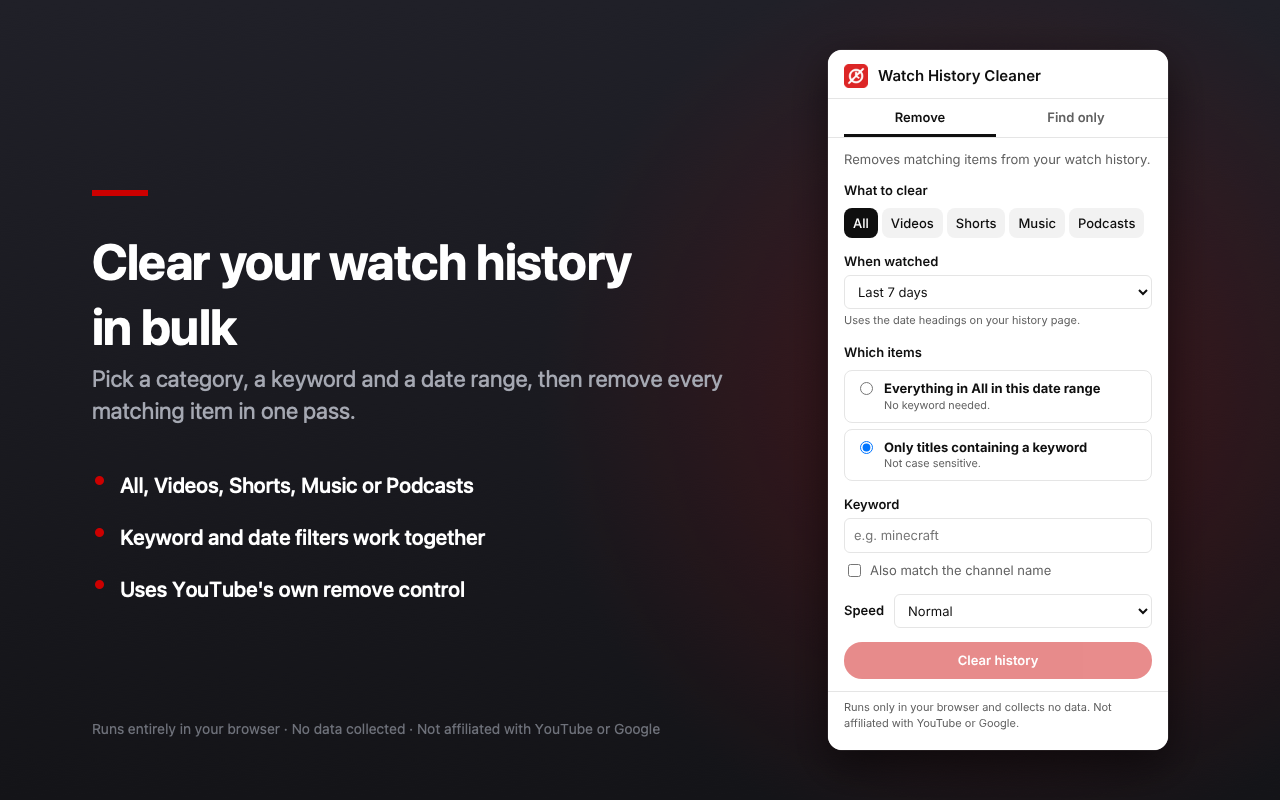
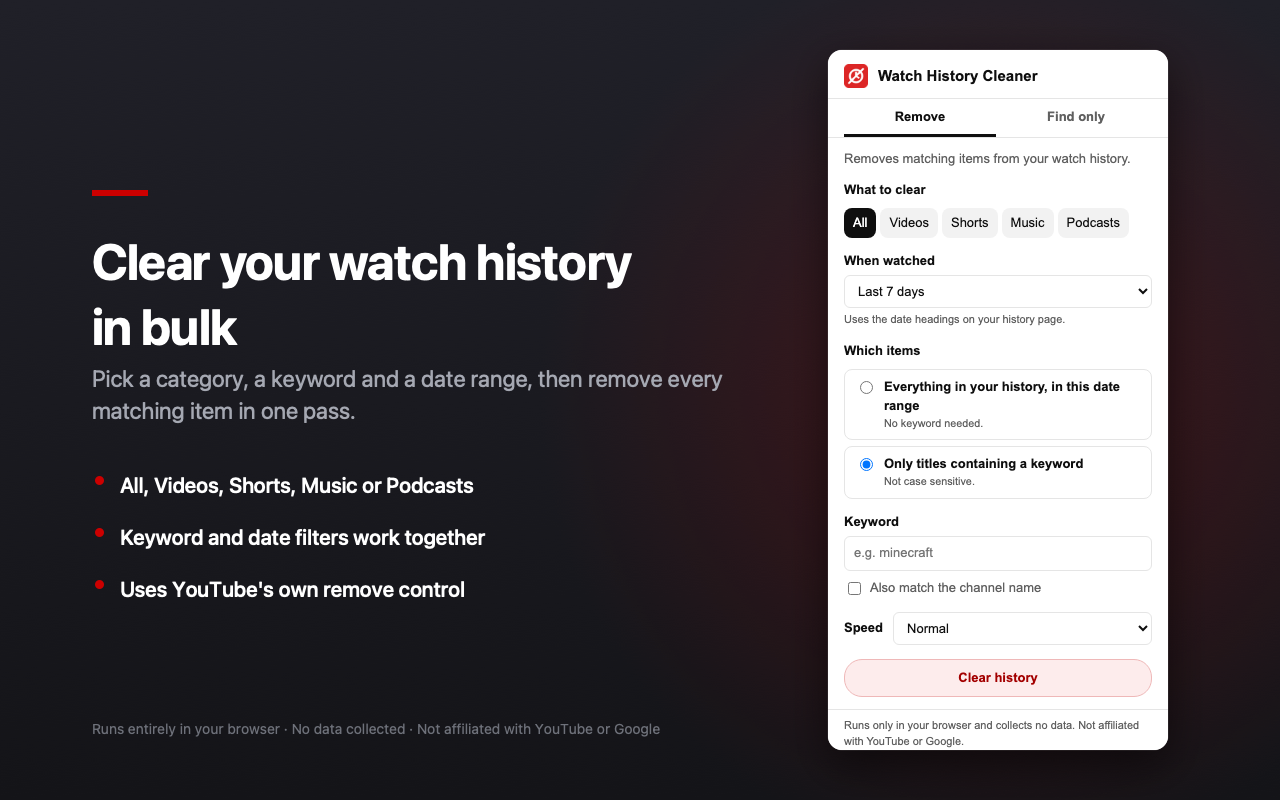
Generate the popup captures the store screenshots are built from
docs/popup-*.png were taken by hand in Chrome and had drifted: they showed
All selected with the keyword scope, while the popup opened on Shorts with
"Everything" selected. The button colour change made them wrong again, and
the listing on the Web Store is built from them.

tools/capture-popup.sh renders them from popup/ instead. The popup calls
chrome.* on load, so the script serves a copy with a small stub of the APIs
it touches, sets each state, and shoots it with headless Chrome at the
popup's own 340x700 in light mode.

`npm run capture` rebuilds docs/, `npm run screenshots` rebuilds store/ from
it. Both are re-run here, so the listing now shows the blue Find button, the
soft red Clear history and the corrected scope label.

The find screenshot's copy was selling what the mode can't do ("Nothing is
removed in this mode"); it now says what the new flow does instead.

diff --git a/README.md b/README.md
@@ -73,8 +73,8 @@ Safety checks: a removal job stops immediately if the selected filter tab is no 
 - `LICENSE`: MIT.
 - `package.json`: no dependencies; `npm test`, `npm run sync`, `npm run zip`, `npm run screenshots`.
 - `store/`: 1280x800 screenshots for the Chrome Web Store listing.
-- `docs/`: raw popup captures the store screenshots are built from.
-- `tools/`: `screenshots.sh` (listing copy) and `make-screenshot.swift` (the drawing).
+- `docs/`: popup captures the store screenshots are built from, generated from `popup/`.
+- `tools/`: `sync-shared.mjs` (generated constants), `capture-popup.sh` (the popup captures), `screenshots.sh` (listing copy) and `make-screenshot.swift` (the drawing).
 
 ## Shared constants
 
@@ -90,9 +90,20 @@ The content script's `validate()` still mirrors `validateOptions()` by hand; it 
 
 ## Packaging
 
-`npm run zip` writes `youtube-history-cleaner.zip` containing `manifest.json`, `popup/`, `src/` and `icons/` and nothing else, ready to upload to the Chrome Web Store. It uses the system `zip` command, so there are no dependencies to install. The zip itself is gitignored.
+`npm run zip` writes `youtube-history-cleaner.zip` containing `manifest.json`, `popup/`, `src/` and `icons/` and nothing else, ready to upload to the Chrome Web Store. It runs `npm test` first, so it won't package a `cleaner.js` whose constants are out of date. It uses the system `zip` command, so there are no dependencies to install. The zip itself is gitignored.
 
-`npm run screenshots` rebuilds the 1280x800 listing screenshots in `store/` from the popup captures in `docs/`. Edit the headlines and bullets in `tools/screenshots.sh`, then re-run it. macOS only: the drawing is a Swift script using CoreGraphics, so it needs the Xcode command line tools and nothing else. Replace the captures in `docs/` when the popup changes.
+## Store screenshots
+
+Two steps, both macOS only:
+
+```bash
+npm run capture      # docs/popup-*.png, rendered from popup/
+npm run screenshots  # store/screenshot-*.png, built from docs/
+```
+
+`npm run capture` serves a copy of `popup/` with a stub of the `chrome.*` calls the popup makes on load, sets up each state, and shoots it with headless Chrome at the popup's own 340x700. The captures used to be taken by hand and drifted away from the real popup, so run this whenever the popup changes rather than re-capturing manually. It needs Google Chrome in `/Applications`.
+
+`npm run screenshots` draws the 1280x800 listing images around those captures. Edit the headlines and bullets in `tools/screenshots.sh`, then re-run it. The drawing is a Swift script using CoreGraphics, so it needs the Xcode command line tools and nothing else.
 
 ## Chrome Web Store notes
 
